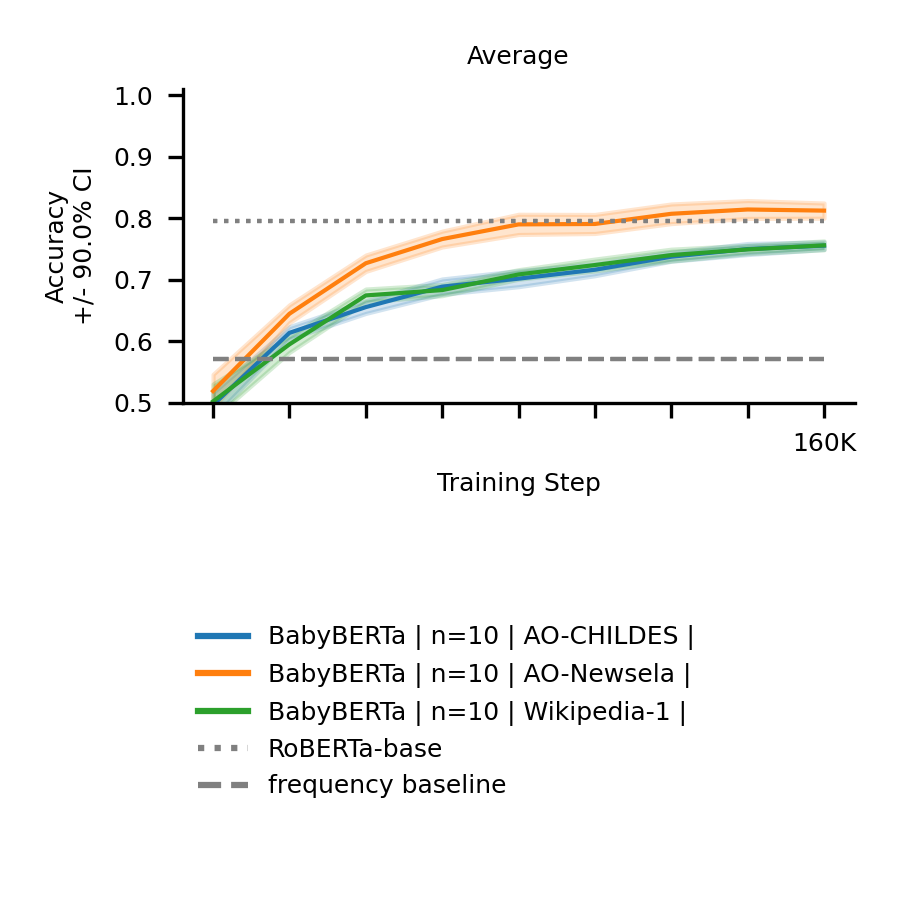
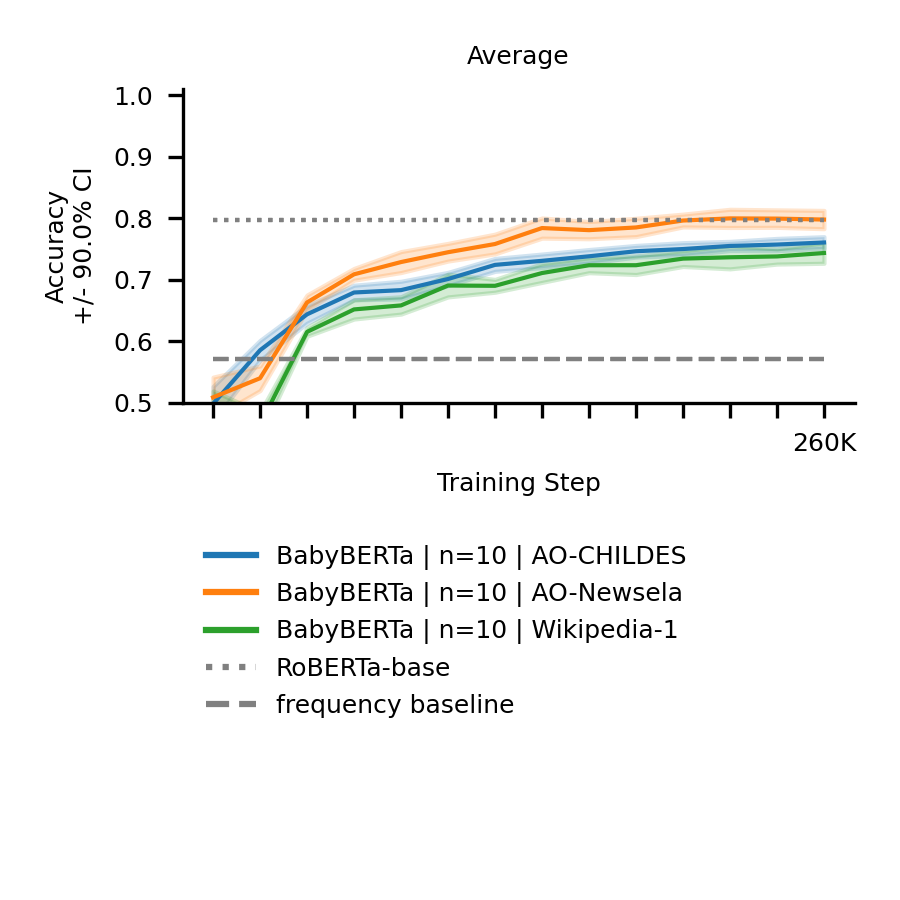
update exp2 images

diff --git a/zorro/visualizer.py b/zorro/visualizer.py
@@ -13,6 +13,10 @@ from zorro.scoring import count_correct_choices
 from zorro.utils import get_reps, shorten_tick_labels, get_legend_label
 
 
+MULTI_AXIS_LEG_OFFSET = 0.11
+SUMMARY_LEG_OFFSET = 0.42
+
+
 def shorten(name: str):
     """make name of phenomenon shorter to fit in figure"""
     name = name.replace('demonstrative', 'det.')
@@ -65,7 +69,7 @@ class VisualizerBase:
                  y_lims: Optional[List[float]] = None,
                  fig_size: int = (6, 6),
                  dpi: int = 300,
-                 show_partial_figure: bool = True,
+                 show_partial_figure: bool = False,
                  confidence: float = 0.90,
                  ):
 
@@ -198,7 +202,7 @@ class VisualizerLines(VisualizerBase):
 
         # plot legend only once to prevent degradation in text quality due to multiple plotting
         if ax_id == 0:
-            self._plot_legend()
+            self._plot_legend(offset_from_bottom=MULTI_AXIS_LEG_OFFSET)
             self.fig.show()
 
         if self.show_partial_figure:
@@ -217,7 +221,7 @@ class VisualizerLines(VisualizerBase):
         fig_standalone, (ax1, ax2) = plt.subplots(2, figsize=(3, 3), dpi=300)
         self._plot_summary_on_axis(ax1, label_y_axis=True)
         ax2.axis('off')
-        self._plot_legend(fig_standalone, offset_from_bottom=0.33)
+        self._plot_legend(offset_from_bottom=SUMMARY_LEG_OFFSET, fig=fig_standalone)
         fig_standalone.show()
 
     def _plot_summary_on_axis(self, ax: plt.axis,
@@ -286,8 +290,8 @@ class VisualizerLines(VisualizerBase):
             ax.axis('off')
 
     def _plot_legend(self,
+                     offset_from_bottom: float,
                      fig: Optional[plt.Figure] = None,
-                     offset_from_bottom: float = 0.11,
                      ):
 
         if fig is None:
@@ -379,7 +383,7 @@ class VisualizerBars(VisualizerBase):
 
         # plot legend only once to prevent degradation in text quality due to multiple plotting
         if ax_id == 0:
-            self._plot_legend()
+            self._plot_legend(offset_from_bottom=MULTI_AXIS_LEG_OFFSET)
 
         if self.show_partial_figure:
             self.fig.tight_layout()
@@ -398,7 +402,7 @@ class VisualizerBars(VisualizerBase):
         self._plot_summary_on_axis(ax1, label_y_axis=True)
         ax2.axis('off')
         fig_standalone.subplots_adjust(top=0.1, bottom=0.01)
-        self._plot_legend(fig_standalone, offset_from_bottom=0.5)
+        self._plot_legend(offset_from_bottom=SUMMARY_LEG_OFFSET, fig=fig_standalone)
         fig_standalone.show()
 
     def _plot_summary_on_axis(self,
@@ -469,8 +473,8 @@ class VisualizerBars(VisualizerBase):
             ax.axis('off')
 
     def _plot_legend(self,
+                     offset_from_bottom: float,
                      fig: Optional[plt.Figure] = None,
-                     offset_from_bottom: float = 0.20,
                      ):
 
         if fig is None:

diff --git a/zorro/configs.py b/zorro/configs.py
@@ -45,15 +45,15 @@ class Eval:
     local_runs = False  # use model output stored locally in Zorro/runs/
 
     # exp1 (part of experiment that is comparing unmasking only)
-    steps = [i for i in range(0, 400_000, 20_000)]
-    param_names = [f'param_{i:03}' for i in [28, 32]]
-    conditions = ['corpora', 'leave_unmasked_prob']
+    # steps = [i for i in range(0, 280_000, 20_000)]
+    # param_names = [f'param_{i:03}' for i in [28, ]]
+    # conditions = ['corpora', 'leave_unmasked_prob']
     # exp2
-    # steps = [i for i in range(0, 180_000, 20_000)]
-    # param_names = [f'param_{i:03}' for i in [1, 2, 3]]
-    # conditions = ['corpora', ]
+    steps = [i for i in range(0, 280_000, 20_000)]
+    param_names = [f'param_{i:03}' for i in [28, 33, 34]]
+    conditions = ['corpora', ]
     # exp3
-    # steps = [i for i in range(0, 180_000, 20_000)]
+    # steps = [i for i in range(0, 280_000, 20_000)]
     # param_names = [f'param_{i:03}' for i in [11, 13]]
     # conditions = ['corpora', 'load_from_checkpoint']
     # # exp4a
@@ -66,10 +66,11 @@ class Eval:
     # conditions = ['corpora']
 
 
-
 class Figs:
     lw = 1
     ax_font_size = 6
     leg_font_size = 6
     title_font_size = 6
     tick_font_size = 6
+    legend_offset_from_bottom = 0.15
+

diff --git a/zorro/utils.py b/zorro/utils.py
@@ -93,13 +93,13 @@ def get_phenomena_and_paradigms(excluded_paradigms: Optional[List[str]] = None,
         # 2
         'agreement_demonstrative_subject',
         'filler-gap',
-        'irregular',
         'island-effects',
         'quantifiers',
         'npi_licensing',
         # 3
         'argument_structure',
         # 1
+        'irregular',
         'anaphor_agreement',
         'ellipsis',
         'binding',
